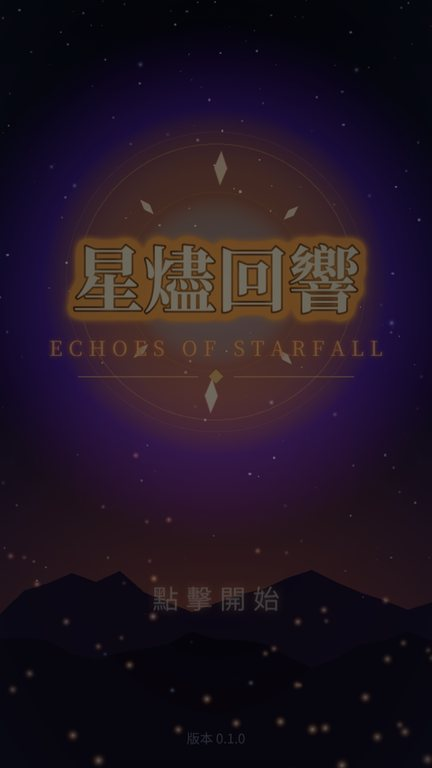
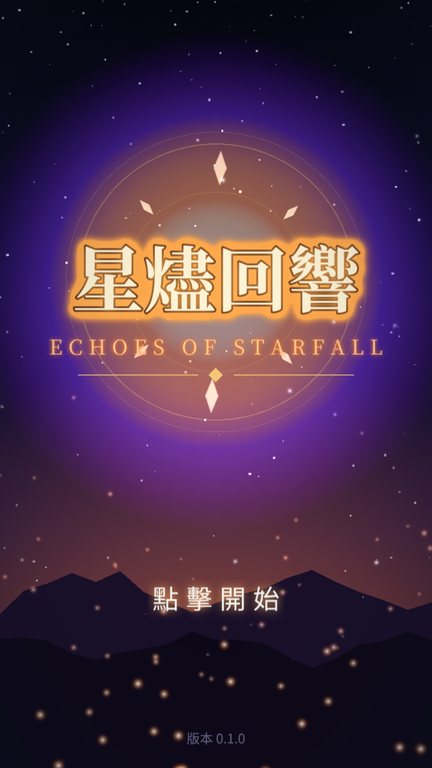
fix(dialogue): 檢定說明放在選項之後，保持 ui.list 與選項索引一致（機器人卡在第一個檢定） docs: 標題截圖改用 skipIntro、D-031～D-033、PLAN 更新
Claude-Session: https://claude.ai/code/session_01CdVfHb8HbssYT6LdfkPPuE

diff --git a/src/game/scenes/DialogueScene.ts b/src/game/scenes/DialogueScene.ts
@@ -310,6 +310,7 @@ export class DialogueScene extends Phaser.Scene {
     const ui = this.add.container(0, 0).setDepth(200);
     const h = 100;
     const top = BOX_Y - 30 - options.length * (h + 14);
+    const tipParts: Phaser.GameObjects.GameObject[] = [];
     // 第一次看到檢定選項：說明 [屬性 難度] 與 [筆記]（只出現一次）
     if (options.some((o) => o.check) && !session.state.flags['tip_check']) {
       session.state.flags['tip_check'] = true;
@@ -319,7 +320,7 @@ export class DialogueScene extends Phaser.Scene {
       const tt = this.add.text(GAME_WIDTH / 2, top - 90, '［屬性 難度］％＝擲星骰檢定，失敗會走另一條路\n［筆記］＝前世攻略知識，必定成功——但世界會偏離劇本', {
         fontFamily: UI_FONT, fontSize: '21px', color: '#dff6ff', align: 'center', lineSpacing: 6,
       }).setOrigin(0.5);
-      ui.add([tg, tt]);
+      tipParts.push(tg, tt);
     }
     options.forEach((o, i) => {
       const y = top + i * (h + 14) + h / 2;
@@ -363,6 +364,8 @@ export class DialogueScene extends Phaser.Scene {
       });
       ui.add(c);
     });
+    // 提示放在選項之後，ui.list 的前 N 個仍對應選項索引（機器人與輸入都依賴此順序）
+    if (tipParts.length) ui.add(tipParts);
   }
 
   private async pick(o: ShownOption, ui: Phaser.GameObjects.Container): Promise<void> {

diff --git a/docs/PLAN.md b/docs/PLAN.md
@@ -1,6 +1,6 @@
 # 開發計畫
 
-> 狀態：**階段 0（設計已定稿）→ 提前開發：序章～終章（三結局）全部可從頭玩到尾（10/24 第 4 輪）；Boss 機制、羈絆面板、片尾統計完成（第 5 輪）；接下來以探索深度、新手引導、打磨為主**　｜　設計定稿：✅ 已定稿（2026-10-23 23:00 台北，見 D-013）
+> 狀態：**階段 0（設計已定稿）→ 提前開發：序章～終章（三結局）全部可從頭玩到尾（10/24 第 4 輪）；Boss 機制、羈絆面板、片尾統計完成（第 5 輪）；README 截圖、新手引導、省電畫質、燼牌收藏（第 6 輪）；接下來以探索深度、新手引導、打磨為主**　｜　設計定稿：✅ 已定稿（2026-10-23 23:00 台北，見 D-013）
 > 當 6+ 份設計文件都完成並自我審查後，把上一行改成「設計定稿：✅ 已定稿（日期）」，才開始寫遊戲功能程式碼。
 
 ## 總時程（台北時間）
@@ -26,14 +26,14 @@
 |---|---|---|
 | 10/24–25（定稿後提前開始） | M0 核心引擎地基 | `core/` 狀態、存檔、對話執行器、戰鬥規則引擎 + 單元測試 |
 | 10/26（✅ 10/24 提前） | M1 戰鬥可玩 | BattleScene：時機輸入、格擋/閃避、燈印/共鳴、完整 game feel；無頭模擬平衡 |
-| 10/27（🟡 地圖+對話+存檔完成，LocationScene 延後） | M2 探索與對話 | MapScene、LocationScene、DialogueScene、檢定、旗標、自動存檔 |
+| 10/27（🟡 地圖+對話+存檔完成，LocationScene 暫不做 D-033） | M2 探索與對話 | MapScene、LocationScene、DialogueScene、檢定、旗標、自動存檔 |
 | 10/28（🟡 CardScene 與序章完成，待打磨） | M3 燼牌 + 序章 | 燼牌引擎/AI/CardScene；序章完整可玩 |
 | **10/29（✅ 10/24 機器人通關）** | **M4 垂直切片** | 序章 + 第 1 章（主線 + 2 支線 + 狼王 + 一局燼牌 + 伊歐加入 + 存讀檔），手機從頭玩到尾 |
 | 10/30（✅ 10/24 機器人通關；隊伍替換、連攜技、吞噬星燼完成） | M5 第 2 章 | 礦坑、瑟琳/莉歐拉、破防/屬性、連攜技、羈絆系統、選單 |
 | 10/31（✅ 10/24 機器人通關；王都/決鬥曲第 5 輪完成） | M6 第 3 章 | 王都、聲望、燼牌大賽、洛克線、程序音樂 |
 | 11/01（✅ 10/24 劇情可通關＋反燈印／星空舞台） | M7 第 4 章 | 研究院、筆記失準、瓦爾德蘭 |
 | 11/02（✅ 10/24 三結局＋蝕星者兩段、全員共鳴、片尾統計） | M8 終章 + 結局 | 蝕之王、3 結局、後日談 |
-| 11/03 | M9 內容完成 | 全羈絆事件、設定頁、畫質選項 |
+| 11/03（🟡 設定頁、省電畫質 10/24 完成） | M9 內容完成 | 全羈絆事件、設定頁、畫質選項 |
 
 ## 階段 2
 - 11/04：平衡（模擬 + 手動）、新手引導、效能（低畫質模式）、bug。

diff --git a/docs/DECISIONS.md b/docs/DECISIONS.md
@@ -2,6 +2,20 @@
 
 > 格式：編號、日期（台北）、決策、理由、替代方案。新的放最上面。
 
+## D-033 2026-10-24 LocationScene（地點熱點畫面）暫不做
+- 評估：每個地點點進去本來就是對話＋選項樞紐，城鎮的「人物/調查/商店」已經用選項表達；做獨立熱點畫面要為每個城鎮重畫場景與熱點資料，約 1–2 輪工作量，對「好玩/驚艷」的邊際效益低於真機手感與內容打磨。
+- 改做：第一次地圖／檢定選項的引導提示。若 11/2 前還有餘裕再回頭評估（只做灰燈鎮）。
+
+## D-032 2026-10-24 新手引導補強與省電畫質
+- 第一次打開地圖、第一次看到檢定選項各顯示一次說明（flags `tip_map`、`tip_check`，存在存檔）。
+- 防守累計失敗 3 次（非教學戰）彈出一次「開啟自動時機？」可一鍵開（`settings.autoTipShown`，每台裝置一次）。不在第一次失敗就跳，避免打擾想練時機的玩家。
+- 設定新增「省電畫質」（`lowFx`）：`sparks` 粒子 ×0.4、關閉戰鬥/對話/大字的 preFX/postFX 光暈。預設關（成果發表以驚艷優先）。
+
+## D-031 2026-10-24 燼牌收藏加入玩家牌組；傳說上限 2 → 4
+- `withCollection()`：收藏（`s.cards`，如贏洛克的「餘燼騎士」、大賽冠軍「星冠」）各加一張進玩家牌組（教學局除外），開局字卡列出加入的牌。讓收集有實際回饋，不另做牌組編輯畫面（成本高、手機上繁瑣）。
+- 大賽牌組已有兩張夥伴傳說，再加收藏會超過 2，所以傳說上限改 4（只有玩家會用到）。
+- 修正：共鳴演出的相機 `zoomTo` 用了 tween 寫法 `'Cubic.Out'`，Phaser 相機特效只認 EaseMap 名稱（`'Cubic.easeOut'`），會在每幀丟 `this.ease is not a function`；已改並加測試掃描所有場景。
+
 ## D-030 2026-10-24 片尾字幕與旅程統計
 - 終幕字卡後捲動片尾：結局、遊玩時間、戰鬥勝利、PERFECT 次數、點亮燈印、最大共鳴、偏移值、攻略筆記頁數、羈絆愛心、製作名單（點擊加速）。統計存在 flags（`stat_*`），只在劇情戰累計。
 - 燼牌 AI 實測：「永遠出第一張可出牌」的玩家對洛克只有 21%、對伯恩 34%，隨機出牌 8–16%，貪婪 AI 51–64%——AI 並不弱，先不改；之前機器人能贏是靠重試。
